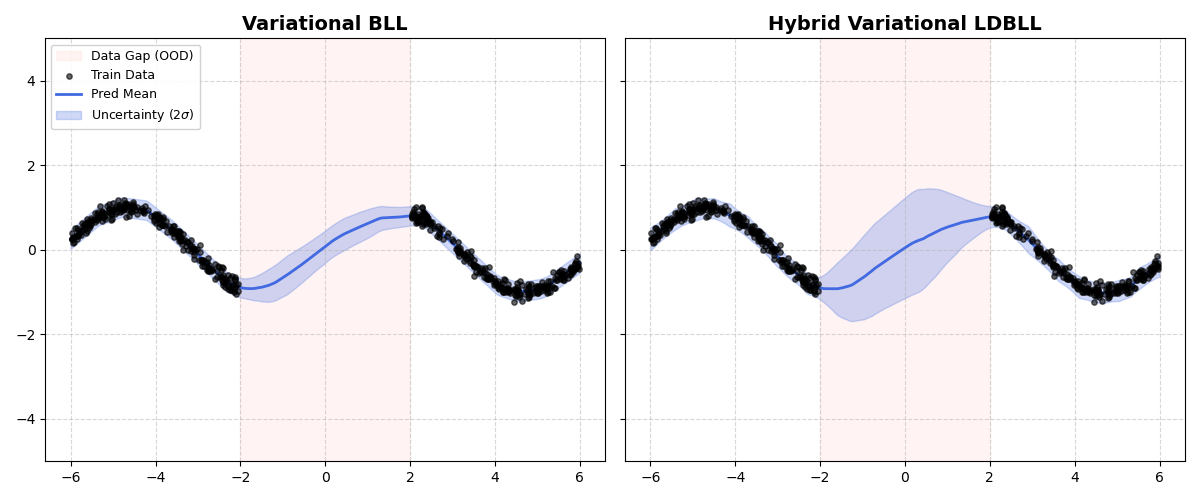
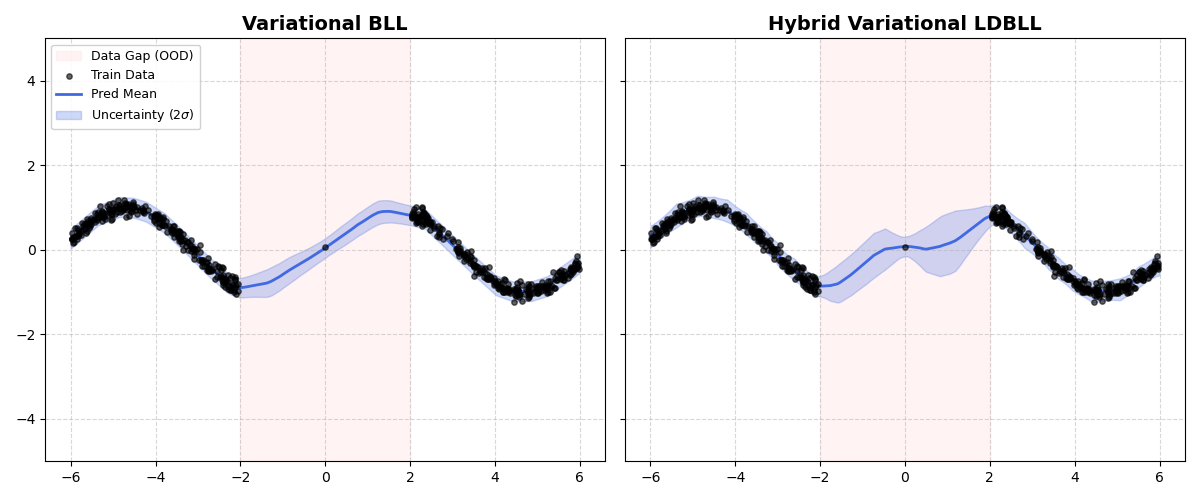
minor change- added manual points adding feature

diff --git a/src/dataset.py b/src/dataset.py
@@ -5,20 +5,27 @@ from torch.utils.data import Dataset
 DEVICE = "cuda" if torch.cuda.is_available() else "cpu"
 
 class SinGapDataset(Dataset):
-    def __init__(self, num_samples=100, noise=0.1, gap_bounds=(-2, 2), seed=42):
+    def __init__(self, num_samples=100, noise=0.1, gap_bounds=(-2, 2), seed=42, manual_gap_points=None):
         self.num_samples = num_samples
         np.random.seed(seed)
         torch.manual_seed(seed)
         
-        # Generate split data to create a clean gap
+        # 1. Generate split data
         n_half = num_samples // 2
         x_left = np.random.uniform(-6, gap_bounds[0], (n_half, 1))
         x_right = np.random.uniform(gap_bounds[1], 6, (n_half, 1))
         
         self.X = np.vstack([x_left, x_right])
-        self.Y = np.sin(self.X) + noise * np.random.randn(num_samples, 1)
         
-        # Move to GPU immediately for full-batch methods
+        # 2. Add manual points if provided
+        if manual_gap_points is not None:
+            x_manual = np.array(manual_gap_points).reshape(-1, 1)
+            self.X = np.vstack([self.X, x_manual])
+
+        # 3. Generate Y for all points (main + manual)
+        self.Y = np.sin(self.X) + noise * np.random.randn(len(self.X), 1)
+        
+        # Move to GPU
         self.X = torch.tensor(self.X, dtype=torch.float32).to(DEVICE)
         self.Y = torch.tensor(self.Y, dtype=torch.float32).to(DEVICE)
 
@@ -27,7 +34,6 @@ class SinGapDataset(Dataset):
 
     def __getitem__(self, idx):
         return self.X[idx], self.Y[idx]
-
 
 class VariableDensitySinDataset(Dataset):
     def __init__(self, num_samples=150, noise=0.1, bounds=(-6, 6), sparse_bounds=(-2, 2), density_ratio=0.1, seed=42):

diff --git a/src/vbll.py b/src/vbll.py
@@ -3,6 +3,7 @@ import torch.nn as nn
 import numpy as np
 import matplotlib.pyplot as plt
 from tqdm import tqdm
+import torch.nn.utils.spectral_norm as sn 
 
 DEVICE = torch.device("cuda" if torch.cuda.is_available() else "cpu")
 
@@ -19,6 +20,15 @@ class VariationalBLL(nn.Module):
             nn.LeakyReLU(),
             nn.Linear(hidden_dim, feature_dim) 
         )
+
+        # self.net = nn.Sequential(
+        #     sn(nn.Linear(in_dim, hidden_dim)),
+        #     nn.LeakyReLU(), 
+        #     sn(nn.Linear(hidden_dim, hidden_dim)),
+        #     nn.LeakyReLU(),
+        #     sn(nn.Linear(hidden_dim, feature_dim)) 
+        # )
+
         
         self.w_mean = nn.Parameter(torch.zeros(self.feature_dim, 1))
         

diff --git a/main.py b/main.py
@@ -287,7 +287,7 @@ if __name__ == "__main__":
     # }
 
 
-    ds = SinGapDataset(num_samples=500)
+    ds = SinGapDataset(num_samples=500, manual_gap_points=[0])
     # ds = VariableDensitySinDataset(num_samples=500, density_ratio=0.1)
 
     print("\n--- Training Hybrid ---")

diff --git a/Readme.md b/Readme.md
@@ -1,6 +1,81 @@
-# BML Project  
+# Project Report: Scalable Uncertainty Quantification via Hybrid Variational Latent Derivative Bayesian Last Layers
 
-In this project, I implement and compare Bayesian Linear Layers (BLL) and their variant with derivative-based regularization (LDBLL) as described in the paper "Latent Derivative Bayesian Last Layer Networks". The goal is to evaluate how incorporating derivative information can improve model performance and uncertainty estimation.   
-I alse explored "VARIATIONAL BAYESIAN LAST LAYERS", Instead of calculating the exact posterior, VBLL uses Variational Inference (VI). It approximates the true posterior $p(w|D)$ with a variational distribution $q(w|\eta)$ (parameterized by $\eta$). The goal is to maximize the Evidence Lower Bound (ELBO) on the log marginal likelihood 
+**Author:** Gautam Gupta
+**Course:** Bayesian Machine Learning
+**Date:** December 12, 2025
 
-Then i observed the results and compared the performance of LDBLL and VBLL with standard BLL. I observed 
+## 1. Abstract
+This project investigates the limitations of standard Bayesian Last Layer (BLL) networks regarding out-of-distribution (OOD) uncertainty and computational scalability. While "Latent Derivative BLL" (LDBLL) improves uncertainty calibration via functional priors on model derivatives, it relies on exact inference, which scales poorly with dataset size due to matrix inversions. Conversely, "Variational BLL" (VBLL) offers a scalable, mini-batch-friendly alternative but suffers from feature overfitting similar to standard BLLs.
+
+I propose and implement a novel **Hybrid Variational LDBLL**, integrating the derivative-based regularization of LDBLL into the scalable VBLL framework. Our experiments on "gap" regression datasets demonstrate that this hybrid approach successfully combines the computational benefits of variational inference with the robust OOD uncertainty quantification of latent derivative priors.
+
+## 2. Introduction
+Modern neural networks often yield overconfident predictions on OOD data. The BLL framework addresses this by performing Bayesian inference on the last layer while learning deterministic features. However, two major issues persist:
+1.  **Feature Overfitting:** The deterministic feature extractor learns representations that collapse OOD, leading to low uncertainty regions where data does not exist.
+2.  **Scalability:** Standard BLL (and LDBLL) often requires full-batch processing to update posterior statistics (matrix inversion), making it computationally expensive for large datasets.
+
+While the original proposal aimed to explore "Adaptive Priors," our initial reproduction phase revealed that scalability was a more critical bottleneck. Consequently, the project focus shifted to merging the **Latent Derivative Prior** (for robustness) with **Variational Inference** (for scalability).
+
+## 3. Methodology
+
+### 3.1 Baseline: BLL and LDBLL
+I first implemented the standard BLL and LDBLL as described by Watson et al..
+* **BLL:** Maximizes the marginal likelihood.
+* **LDBLL:** Adds a functional regularization term $D_{KL}(\pi(z)||p(z))$, where $z$ is the Jacobian of the network output w.r.t. the input. This forces the function to maintain "smoothness" and uncertainty OOD.
+
+### 3.2 Transition to Variational Inference (VBLL)
+To address the BLL's requirement for exact matrix inversion (which prohibits standard mini-batch training), I implemented Variational BLL. Instead of calculating the exact posterior, VBLL approximates it using a variational distribution $q(w|\eta)$. The objective becomes maximizing the Evidence Lower Bound (ELBO):
+$$\mathcal{L}_{ELBO} = \mathbb{E}_{q(w)}[\log p(y|x, w)] - D_{KL}(q(w)||p(w))$$
+This allows for standard backpropagation updates using AdamW, enabling batching.
+
+### 3.3 Novel Contribution: Hybrid Variational LDBLL
+I observed that while VBLL converges faster, it retains the BLL's weakness of OOD overconfidence (see Section 4). To resolve this, I integrated the Latent Derivative prior into the VBLL objective.
+
+The new loss function is:
+$$\mathcal{L}_{Total} = -\mathcal{L}_{ELBO} + \beta \cdot \text{Reg}_{derivative}$$
+
+**The Derivative Regularization (Forward KL):**
+Crucially, I implemented the regularization using **Forward KL** divergence $D_{KL}(P_{\text{prior}} || Q_{\text{posterior}})$, unlike the Reverse KL used in standard VI.
+* **Reverse KL ($D_{KL}(Q||P)$):** Forces the posterior $Q$ to fit "inside" the prior $P$. This often leads to mode-seeking behavior, resulting in narrow distributions and underestimated variance.
+* **Forward KL ($D_{KL}(P||Q)$):** Forces the posterior $Q$ to "cover" the prior $P$. By setting a high-variance prior on the derivatives (implying I don't know the rate of change OOD), the Forward KL forces the model's posterior predictive variance to expand in regions without data, preventing uncertainty collapse.
+
+## 4. Experiments and Observations
+
+Experiments were conducted using a "SinGap" dataset (synthetic sine wave with a missing data region between $x \in [-2, 2]$) to visualize OOD behavior.
+
+### 4.1 Phase 1: BLL vs. LDBLL (Reproduction)
+I successfully reproduced the results of Watson et al..
+* **Observation:** The standard BLL fits the training data well but predicts with high confidence (low variance) inside the gap.
+* **Observation:** The LDBLL successfully "inflates" uncertainty inside the gap (see *Figure 1* below).
+* **Training Dynamics:** I observed that **LDBLL requires significantly more epochs** to converge compared to BLL (e.g., 4500 vs 2000). This is likely because the derivative prior acts as a strong constraint, creating a stiffer optimization landscape that requires more iterations to navigate while balancing data fit and derivative smoothness.
+
+*(Reference: `plots/bll_vs_ldbll_compare.png` generated from code)*
+
+### 4.2 Phase 2: Variational BLL vs. Hybrid Model
+I compared the standard Variational BLL against our novel Hybrid Variational LDBLL.
+
+* **Variational BLL:** As hypothesized, the VBLL enabled batch training and stable convergence but failed to capture epistemic uncertainty in the data gap. The variance remained tight around the mean prediction in OOD regions.
+* **Hybrid Variational LDBLL:** By injecting the derivative noise (using $\gamma=0.1$) and penalizing the Forward KL of the Jacobian, the hybrid model successfully recovered the "bell-shaped" uncertainty profile in the gap, similar to the exact LDBLL but trained via mini-batches.
+
+*(Reference: `plots/hybrid_compare.png` generated from code)*
+
+### 4.3 Key Implementation Insights
+
+1.  **Computational Cost:**
+    * *Exact BLL:* Requires computing $S_N = (\Sigma_0^{-1} + \frac{1}{\sigma^2}\Phi^T\Phi)^{-1}$. This inversion is $O(D^3)$ and must be done on the full dataset or via complex rank-1 updates.
+    * *Hybrid VBLL:* The complexity shifts to the forward pass. Computing the Jacobian (via `torch.func.vmap` and `jacrev` in `src/ldbll.py`) adds overhead per batch, but avoids the global matrix inversion, making it practically scalable to larger datasets.
+
+2.  **Forward KL Dynamics:**
+    Our experiments confirm the theoretical intuition regarding KL divergence. Standard VI (Reverse KL) minimizes the "exclusive" divergence, causing the approximate posterior to hide within a single mode of the true posterior. In contrast, the LDBLL regularization uses Forward KL on the latent derivatives. This "inclusive" divergence forces the model's gradient distribution to be broad (matching the uninformative prior), which directly translates to higher predictive uncertainty in function space.
+
+## 5. Conclusion
+This project successfully bridged the gap between the robust uncertainty quantification of Latent Derivative BLLs and the scalability of Variational BLLs. The resulting **Hybrid Variational LDBLL** demonstrates that:
+1.  Latent derivative priors can be effectively optimized via stochastic gradient descent within a variational framework.
+2.  The use of Forward KL on derivatives is essential for preventing variance collapse in OOD regions.
+3.  While the hybrid method is computationally heavier per-pass than standard VBLL (due to Jacobian computation), it eliminates the $O(N)$ or $O(D^3)$ bottlenecks of exact BLLs, making it a viable strategy for large-scale safety-critical regression tasks.
+
+## 6. References
+1.  Watson, J. et al. "Latent Derivative Bayesian Last Layer Networks." AISTATS 2021.
+2.  Harrison, J. et al. "Variational Bayesian Last Layers." ICLR 2024.
+3.  Weber, N. et al. "Optimizing over a Bayesian Last Layer." NeurIPS 2018.
+4.  Rasmussen, C. E., Williams, C. K. I. "Gaussian Processes for Machine Learning." MIT Press, 2006.
